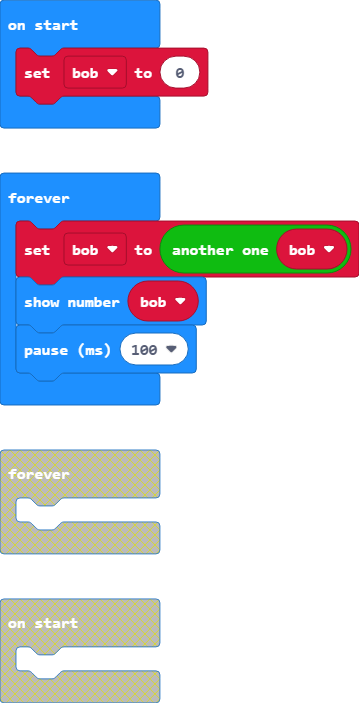
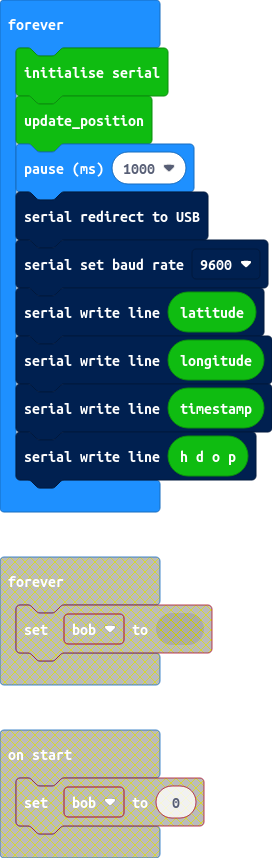
added actual GPS blocks

diff --git a/custom.ts b/custom.ts
@@ -1,23 +1,106 @@
-
-//% weight=100 color=#0fbc11 icon=""
+/**
+ * Custom blocks
+ */
+//% weight=100 color=#0fbc11 icon="\uf3c5"
 namespace GPS {
-    /**
-     * TODO: describe your function here
-     * @param n describe parameter here, eg: 5
-     * @param s describe parameter here, eg: "Hello"
-     * @param e describe parameter here
-     */
+    let _latitude = -1;
+    let _longitude = -1;
+    let _timestamp = -1;
+    let _HDOP = -1;
+    /* Get Location will query the Serial port 
+       and get lines until it gets one with a GNGGA 
+       prefix. It will then split it, and parse the 
+       location, timestamp, and HDOP into an 
+       array and return them. Converts the h/m/s of 
+       the timestamp into seconds. */
+
     //% block
-    export function foo(): string {
-        return "something";
+    export function update_position() {
+        _latitude = -1;
+        _longitude = -1;
+        _timestamp = -1;
+        _HDOP = -1;
+        //lets get 20 rows and then quit out if we don't find the GNGGA
+        for (let i = 0; i < 20; i++) {
+            let serialIn = serial.readUntil(serial.delimiters(Delimiters.CarriageReturn));
+            let splot = serialIn.split(",");
+            if (splot.length > 0 && splot[0].trim() == "$GNGGA") {
+                //got ourselves a GNGGA here
+                //sample GNGGA string is
+                //$GNGGA, 212531.000, 5317.25962, N, 00614.98308, W, 1, 06, 2.9, 1.2, M, 0.0, M,,* 6B
+                //described at the end of the file.
+                if (splot[2].length > 0) { // looks like we're getting data
+                    //Latitude is in ddmm.mmmmmmm format as per spec, Longitude is dddmm.mmmmmmm
+                    //so we have to convert into degrees & fractions of a degree
+                    _latitude = parseFloat(splot[2].slice(0, 2)) + (parseFloat(splot[2].slice(2)) / 60);
+                    _longitude = parseFloat(splot[4].slice(0, 3)) + (parseFloat(splot[4].slice(3)) / 60);
+                    //also also if that 5th element is W then the longitude is -longitude
+                    //and if the 3rd element is S then ditto for latitude
+                    if (splot[5] == "W") _longitude = -_longitude;
+                    if (splot[3] == "S") _latitude = -_latitude;
+
+                    //timestamp is HHMMSS and some always zero'd out millis
+                    //so lets convert to a seconds timestamp. Problems at midnight but meh
+                    _timestamp = (parseInt(splot[1].slice(0, 2)) * 60 * 60) +
+                        (parseInt(splot[1].slice(2, 4)) * 60) +
+                        (parseInt(splot[1].slice(4, 6)));
+                    _HDOP = parseFloat(splot[8]);
+                    break;
+                }
+            }
+        }
     }
 
-    /**
-     * TODO: describe your function here
-     * @param value describe value here, eg: 5
-     */
     //% block
-    export function anotherOne(value: number): number {
-        return value + 1;
+    export function latitude(): number {
+        return _latitude;
+    }
+
+    //% block
+    export function longitude(): number {
+        return _longitude;
+    }
+
+    //% block
+    export function timestamp(): number {
+        return _timestamp;
+    }
+
+    //% block
+    export function HDOP(): number {
+        return _HDOP;
+    }
+
+    /* Quick bit of code to init the Serial port
+       to use P0 and P1 and our 9600 GPS Module
+       Baud rate */
+
+    //% block
+    export function initialiseSerial(): void {
+        serial.redirect(
+            SerialPin.P0,
+            SerialPin.P1,
+            BaudRate.BaudRate9600
+        );
+        serial.setRxBufferSize(128)
     }
 }
+
+/*
+< 0 > $GNGGA
+< 1 > UTC time, the format is hhmmss.sss
+< 2 > Latitude, the format is ddmm.mmmmmmm
+< 3 > Latitude hemisphere, N or S(north latitude or south latitude)
+< 4 > Longitude, the format is dddmm.mmmmmmm
+< 5 > Longitude hemisphere, E or W(east longitude or west longitude)
+< 6 > GNSS positioning status: 0 not positioned, 1 single point positioning, 2 differential GPS fixed solution, 4 fixed solution, 5 floating point solution
+< 7 > Number of satellites used
+< 8 > HDOP level precision factor
+< 9 > Altitude
+< 10 > The height of the earth ellipsoid relative to the geoid
+< 11 > Differential time
+< 12 > Differential reference base station label
+ * Statement end marker
+xx XOR check value of all bytes starting from $ to *
+< CR > Carriage return, end tag
+< LF > line feed, end tag */

diff --git a/main.ts b/main.ts
@@ -1,6 +1,11 @@
-let bob = 0
 basic.forever(function () {
-    bob = GPS.anotherOne(bob)
-    basic.showNumber(bob)
-    basic.pause(100)
+    GPS.initialiseSerial()
+    GPS.update_position()
+    basic.pause(1000)
+    serial.redirectToUSB()
+    serial.setBaudRate(BaudRate.BaudRate9600)
+    serial.writeLine("" + (GPS.latitude()))
+    serial.writeLine("" + (GPS.longitude()))
+    serial.writeLine("" + (GPS.timestamp()))
+    serial.writeLine("" + (GPS.HDOP()))
 })
